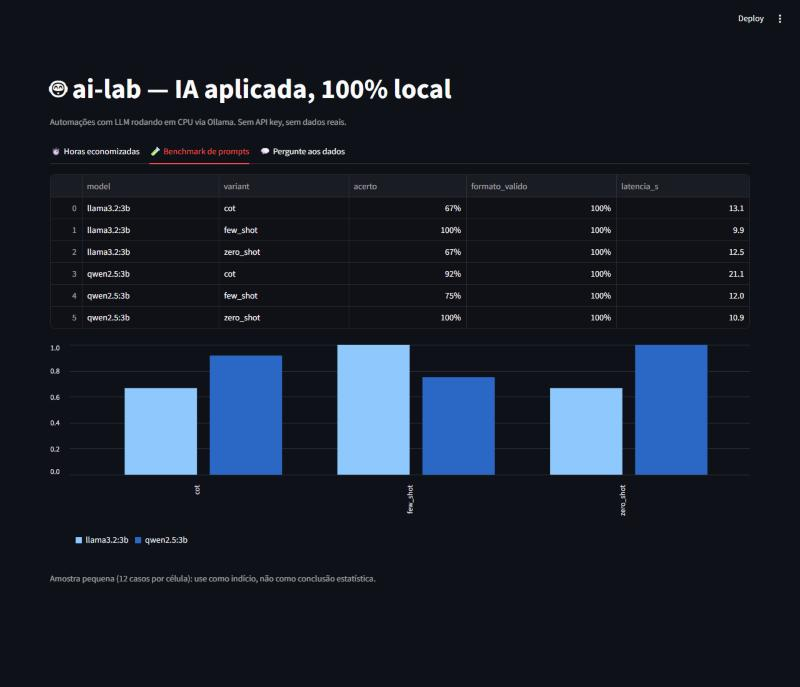
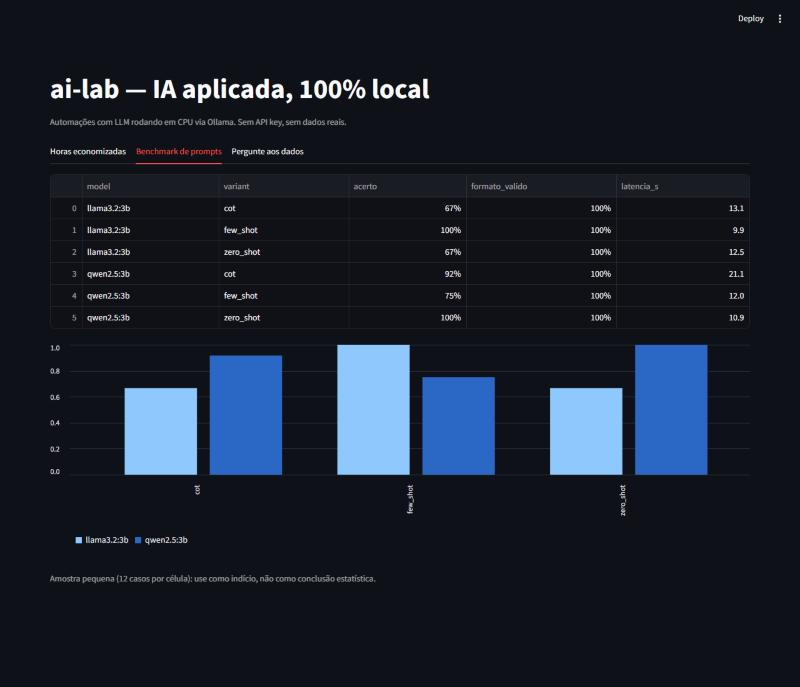
chore: remove emojis do dashboard, README e prints

Changed region(s): [[0.0625, 0.0917, 0.5625, 0.1528], [0.0625, 0.214, 0.4375, 0.2445]]

diff --git a/dashboard/app.py b/dashboard/app.py
@@ -13,8 +13,8 @@ from ailab.db import connect
 
 DB = "data/results.db"
 connect(DB).close()
-st.set_page_config(page_title="ai-lab", page_icon="🤖", layout="wide")
-st.title("🤖 ai-lab — IA aplicada, 100% local")
+st.set_page_config(page_title="ai-lab", layout="wide")
+st.title("ai-lab — IA aplicada, 100% local")
 st.caption("Automações com LLM rodando em CPU via Ollama. Sem API key, sem dados reais.")
 
 conn = sqlite3.connect(DB)
@@ -22,7 +22,7 @@ runs = pd.read_sql_query("select * from runs", conn)
 bench = pd.read_sql_query("select * from bench", conn)
 conn.close()
 
-tab1, tab2, tab3 = st.tabs(["⏱ Horas economizadas", "🧪 Benchmark de prompts", "💬 Pergunte aos dados"])
+tab1, tab2, tab3 = st.tabs(["Horas economizadas", "Benchmark de prompts", "Pergunte aos dados"])
 
 with tab1:
     if runs.empty:

diff --git a/docs/superpowers/plans/2026-10-30-ai-lab.md b/docs/superpowers/plans/2026-10-30-ai-lab.md
@@ -720,14 +720,14 @@ from ailab.db import connect
 
 DB = "data/results.db"
 connect(DB).close()
-st.set_page_config(page_title="ai-lab", page_icon="🤖", layout="wide")
-st.title("🤖 ai-lab — IA aplicada, 100% local")
+st.set_page_config(page_title="ai-lab", layout="wide")
+st.title("ai-lab — IA aplicada, 100% local")
 
 conn = sqlite3.connect(DB)
 runs = pd.read_sql_query("select * from runs", conn)
 bench = pd.read_sql_query("select * from bench", conn)
 
-tab1, tab2, tab3 = st.tabs(["⏱ Horas economizadas", "🧪 Benchmark de prompts", "💬 Pergunte aos dados"])
+tab1, tab2, tab3 = st.tabs(["Horas economizadas", "Benchmark de prompts", "Pergunte aos dados"])
 
 with tab1:
     if runs.empty:

diff --git a/README.md b/README.md
@@ -1,4 +1,4 @@
-# 🤖 ai-lab — IA aplicada, 100% local
+# ai-lab — IA aplicada, 100% local
 
 Prompts estruturados, benchmark de LLMs, automações com horas economizadas medidas e um dashboard onde você pergunta aos dados em linguagem natural. **Sem API key, sem nuvem, sem dados reais**: tudo roda em CPU via [Ollama](https://ollama.com).
 
